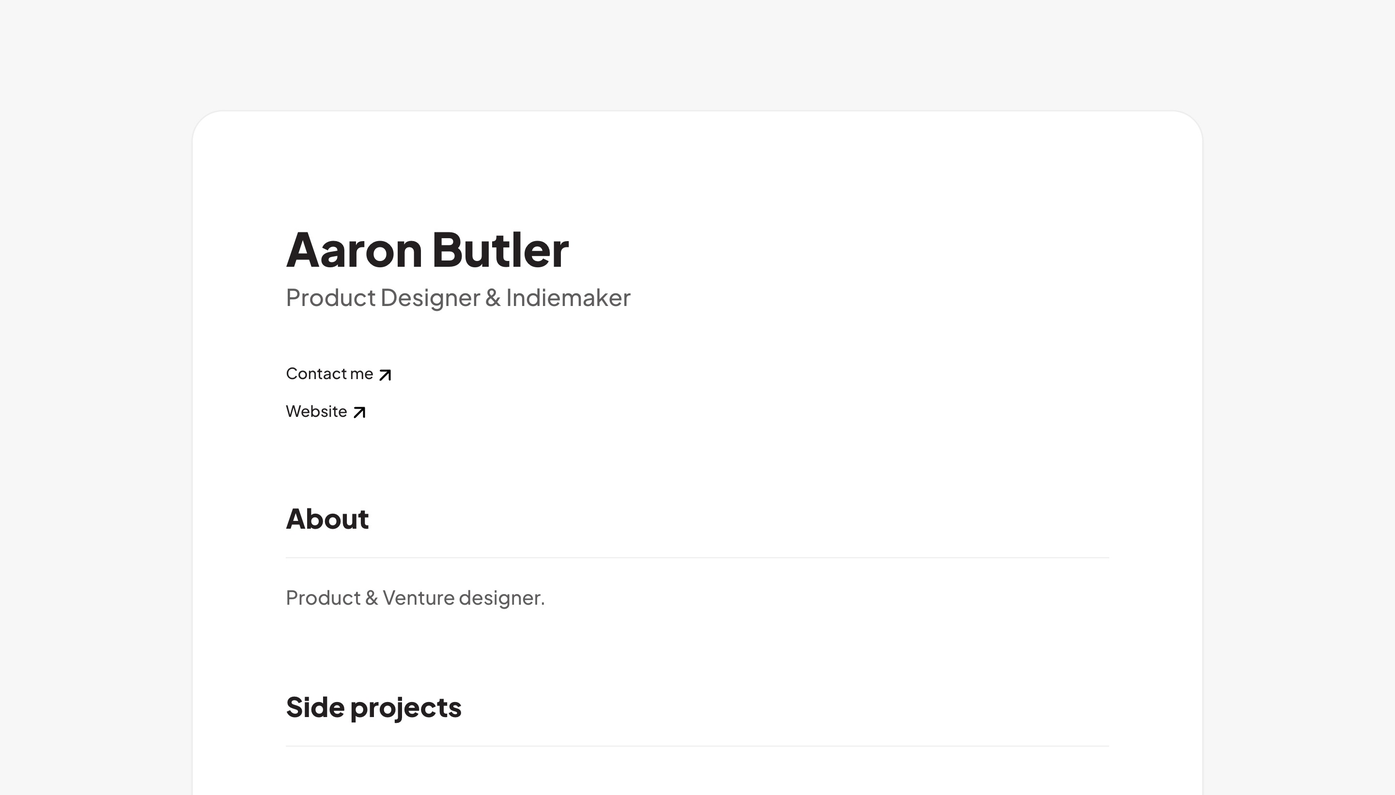
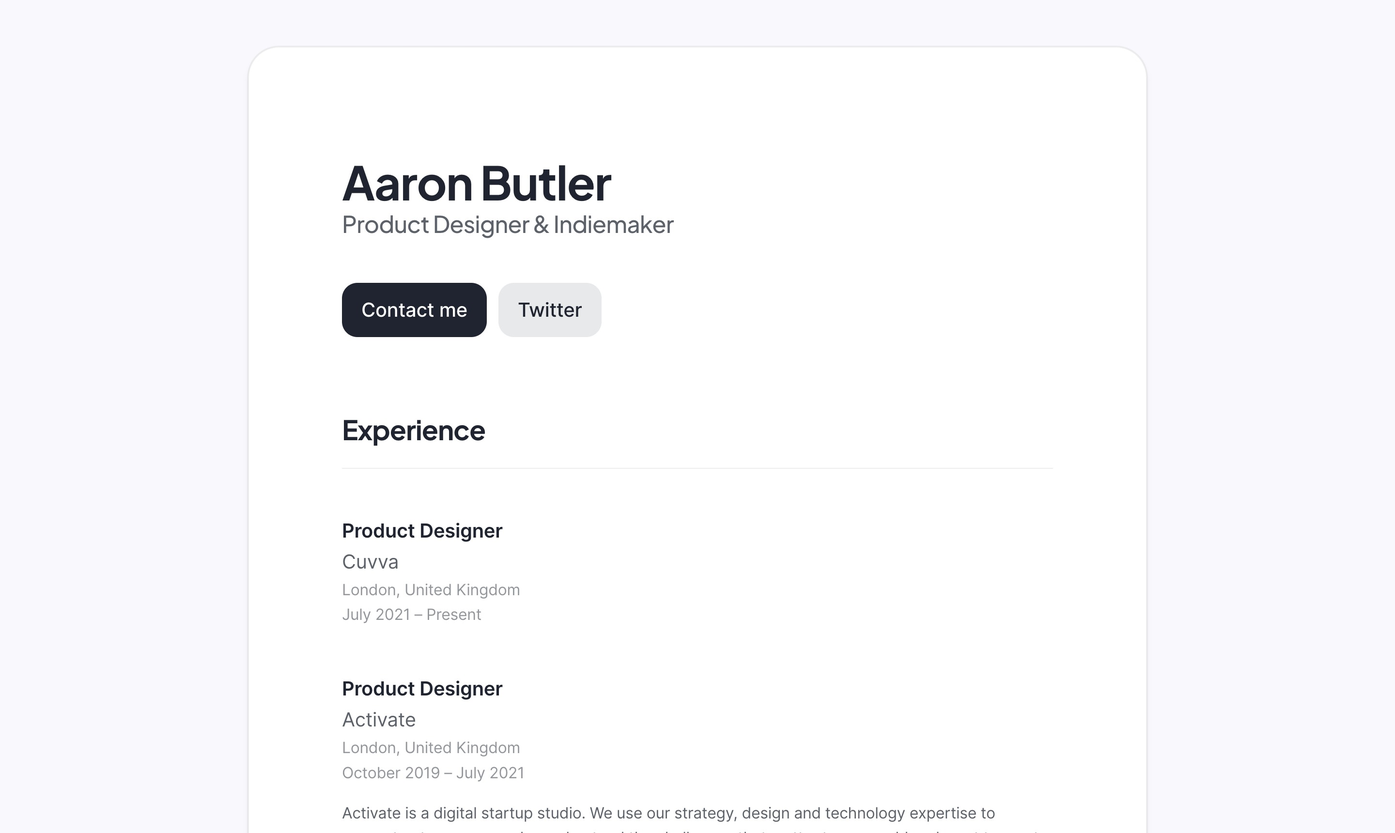
update template previews

diff --git a/components/profile/DocumentProfile.js b/components/profile/DocumentProfile.js
@@ -201,7 +201,7 @@ const DocumentProfile = (props) => {
           {/* <div style={{ marginTop: '66px' }}> */}
           <div>
             {props.pageId === currentUserId && !props.surveyOnSignUpHide ? <SurveyBanner /> : ''}
-            <Container className="py-5 px-3 px-md-3">
+            <Container className="py-5 px-3 px-md-3" style={{maxWidth: '960px'}}>
               <div className={`${profileStyles.profileCard} p-4 p-md-5 shadow-2 radius-4 bg-light-900`}>
                 <div className="px-0 px-md-5">
                   <div className="mt-0 mt-md-5 mb-5 py-3">
@@ -264,7 +264,7 @@ const DocumentProfile = (props) => {
                           })}
                       </div>
                       : ''} */}
-                    {(props.linksPrimary || props.email || links) &&
+                    {/* {(props.linksPrimary || props.email || links) &&
                       <div className="d-flex flex-column" style={{ gap: '12px' }}>
                         {props.linksPrimary ?
                           <a href={convertToLink(props.linksPrimary.url)} target="_blank" className={`${profileStyles.link}`}>
@@ -295,6 +295,28 @@ const DocumentProfile = (props) => {
                                 <svg width="24" viewBox="0 0 24 24">
                                   <path d={ICONS.ARROW_LINK}></path>
                                 </svg>
+                              </a>
+                            )
+                        })}
+                      </div>
+                    } */}
+                    {(props.linksPrimary || props.email || links) &&
+                      <div className="d-flex justify-content-start flex-column flex-sm-row flex-wrap mt-4" style={{ gap: '12px' }}>
+                        {props.linksPrimary ?
+                          <a href={convertToLink(props.linksPrimary.url)} target="_blank" className={`btn dark high w-100 w-sm-auto`}>{props.linksPrimary.label}</a>
+                        
+                        :
+                          <a href={'mailto:' + props.email} target="_blank" className={`btn dark high w-100 w-sm-auto`}>Contact me</a>
+                        }
+                        {props.links &&
+                          props.links.map((link, index) => {
+                            return (
+                              <a 
+                              key={index} 
+                              href={convertToLink(link.url)}
+                              target="_blank" 
+                              className={`btn dark medium w-100 w-sm-auto`}>
+                                {link.label}
                               </a>
                             )
                         })}
@@ -370,8 +392,7 @@ const DocumentProfile = (props) => {
                                     {sideProject.starts_at && sideProject.ends_at == null ? ' – Present' : null}
                                     {sideProject.starts_at && sideProject.ends_at && sideProject.ends_at.month && sideProject.ends_at.year ? ( sideProject.starts_at.month == sideProject.ends_at.month & sideProject.starts_at.year == sideProject.ends_at.year ? null : ` – ${convertMonth(sideProject.ends_at.month)} ${sideProject.ends_at.year}`) : null }
                                   </p>
-                                  {/* {sideProject.description ? <p className="text-dark-med mb-0 mt-3">{sideProject.description}</p> : null} */}
-                                  {sideProject.description ? <p className="text-dark-med mb-0 mt-3">{getDescriptionText(sideProject.description, descriptionShowMore, setDescriptionShowMore)}</p> : null}
+                                  {sideProject.description && getDescriptionText(sideProject.description, descriptionShowMore, setDescriptionShowMore)}
                                 </div>
                               </Accordion>
                             </div>
@@ -440,8 +461,7 @@ const DocumentProfile = (props) => {
                                     {job.starts_at && job.ends_at == null ? ' – Present' : null}
                                     {job.starts_at && job.ends_at && job.ends_at.month && job.ends_at.year ? ( job.starts_at.month == job.ends_at.month & job.starts_at.year == job.ends_at.year ? null : ` – ${convertMonth(job.ends_at.month)} ${job.ends_at.year}`) : null }
                                   </p>
-                                  {/* {job.description ? <p className="text-dark-med mb-0 mt-3">{job.description}</p> : null} */}
-                                  {job.description ? <p className="text-dark-med mb-0 mt-3">{getDescriptionText(job.description, descriptionShowMore, setDescriptionShowMore)}</p> : null}
+                                  {job.description && getDescriptionText(job.description, descriptionShowMore, setDescriptionShowMore)}
                                 </div>
                               </Accordion>
                             </div>
@@ -472,7 +492,7 @@ const DocumentProfile = (props) => {
                                                   currentTarget.className = 'd-none'
                                                 }}
                                                 className="position-absolute radius-2 shadow-2 bg-light-900 w-100 h-100" 
-                                                style={{ top: 0, left: 0, zIndex: 1 }}
+                                                style={{ top: 0, left: 0, zIndex: 1, objectFit:'cover' }}
                                               />
                                               <div id="placeholder" className="bg-dark-200 radius-2 align-items-center justify-content-center d-flex" style={{ position: 'absolute', top: 0, left: 0, width: '100%', height: '100%' }}>
                                                 <Icon icon={ICONS.PROJECTS} size='32' className="fill-dark-700" />
@@ -500,7 +520,8 @@ const DocumentProfile = (props) => {
                                         {project.starts_at && project.ends_at == null ? ' – Present' : null}
                                         {project.starts_at && project.ends_at && project.ends_at.month && project.ends_at.year ? ( project.starts_at.month == project.ends_at.month & project.starts_at.year == project.ends_at.year ? null : ` – ${convertMonth(project.ends_at.month)} ${project.ends_at.year}`) : null }
                                       </p>
-                                      {project.description ? <p className="text-dark-med mb-0 mt-3">{getDescriptionText(project.description, descriptionShowMore, setDescriptionShowMore)}</p> : null}
+                                      {/* {project.description ? <p className="text-dark-med mb-0 mt-3">{getDescriptionText(project.description, descriptionShowMore, setDescriptionShowMore)}</p> : null} */}
+                                      {project.description && getDescriptionText(project.description, descriptionShowMore, setDescriptionShowMore)}
                                     </div>
                                   </Accordion>
                                 </div>
@@ -574,55 +595,58 @@ const DocumentProfile = (props) => {
                       <h4>Volunteering</h4>
                       <hr className="mb-4"></hr>
                       <div className="">
-                        {props.volunteer_work.map((volunteer, index) =>
-                          <div key={index} className="py-4">
-                            <div className="d-flex flex-column flex-lg-row">
-                              {props.logoVisibility && props.logoVisibility.volunteering ?
-                                (volunteer.logo_url ?
-                                  <div className="mb-3 mb-lg-0 mr-0 mr-lg-4">
-                                    <a target="_blank" href={convertToLink(volunteer.company_linkedin_profile_url)} className="d-block position-relative" style={{ width: '72px', height: '72px', minWidth: '72px', minHeight: '72px', maxWidth: '72px', maxHeight: '72px', overflow: 'hidden' }}>
-                                      {/* <img 
-                                        className={styles.experienceImage} src={job.logo_url ? job.logo_url : null} 
-                                        style={{width: '72px', height: '72px', minWidth: '72px', minHeight: '72px'}}
-                                      /> */}
-                                      <img
-                                        className="radius-3 bg-light-900"
-                                        src={volunteer.logo_url ? volunteer.logo_url : null}
-                                        onError={({ currentTarget }) => {
-                                          // currentTarget.onerror = null; // prevents looping
-                                          currentTarget.className = 'd-none'
-                                          // currentTarget.style = "display: 'none'" 
-                                          // placeholder.setAttribute("class", "bg-dark-200 radius-3 d-flex align-items-center justify-content-center d-none");
-                                          // currentTarget.src="https://via.placeholder.com/150";
-                                        }}
-                                        style={{ position: 'absolute', top: 0, left: 0, width: '100%', height: '100%', minWidth: '72px', minHeight: '72px', zIndex: '1' }}
-                                      />
-                                      <div id="placeholder" className="bg-dark-200 radius-3 align-items-center justify-content-center d-flex" style={{ position: 'absolute', top: 0, left: 0, width: '100%', height: '100%', minWidth: '72px', minHeight: '72px' }}>
-                                        <Icon icon={ICONS.VOLUNTEERING} size='32' className="fill-dark-700" />
-                                      </div>
-                                    </a>
-                                  </div>
-                                  :
-                                  <div className="bg-dark-200 radius-3 d-flex align-items-center justify-content-center mb-3 mb-lg-0 mr-0 mr-lg-4" style={{ width: '72px', height: '72px', minWidth: '72px', minHeight: '72px' }}>
-                                    <Icon icon={ICONS.VOLUNTEERING} size='32' className="fill-dark-700" />
-                                  </div>
-                                ) : null}
-                              <div>
-                                <p className="large text-dark-high font-weight-semibold mb-0">{volunteer.title}</p>
-                                <a target="_blank" href={volunteer.company_linkedin_profile_url && convertToLink(volunteer.company_linkedin_profile_url)}>
-                                  <p className="large text-dark-med mb-0">{volunteer.company}</p>
-                                </a>
-                                <p className="text-dark-low mb-0">
-                                  {volunteer.starts_at ? (volunteer.starts_at.month ? convertMonth(volunteer.starts_at.month) + " " : '') : null}
-                                  {volunteer.starts_at ? (volunteer.starts_at.year ? volunteer.starts_at.year + " " : null) : null}
-                                  {volunteer.starts_at && volunteer.ends_at == null ? ' – Present' : null}
-                                  {volunteer.starts_at && volunteer.ends_at && volunteer.ends_at.month && volunteer.ends_at.year ? ( volunteer.starts_at.month == volunteer.ends_at.month & volunteer.starts_at.year == volunteer.ends_at.year ? null : ` – ${convertMonth(volunteer.ends_at.month)} ${volunteer.ends_at.year}`) : null }
-                                </p>
-                                {volunteer.description ? <p className="text-dark-med mb-0 mt-3">{volunteer.description}</p> : null}
+                        {props.volunteer_work.map((volunteer, index) => {
+                          const [descriptionShowMore, setDescriptionShowMore] = useState(false);
+                          return (
+                            <div key={index} className="py-4">
+                              <div className="d-flex flex-column flex-lg-row">
+                                {props.logoVisibility && props.logoVisibility.volunteering ?
+                                  (volunteer.logo_url ?
+                                    <div className="mb-3 mb-lg-0 mr-0 mr-lg-4">
+                                      <a target="_blank" href={convertToLink(volunteer.company_linkedin_profile_url)} className="d-block position-relative" style={{ width: '72px', height: '72px', minWidth: '72px', minHeight: '72px', maxWidth: '72px', maxHeight: '72px', overflow: 'hidden' }}>
+                                        {/* <img 
+                                          className={styles.experienceImage} src={job.logo_url ? job.logo_url : null} 
+                                          style={{width: '72px', height: '72px', minWidth: '72px', minHeight: '72px'}}
+                                        /> */}
+                                        <img
+                                          className="radius-3 bg-light-900"
+                                          src={volunteer.logo_url ? volunteer.logo_url : null}
+                                          onError={({ currentTarget }) => {
+                                            // currentTarget.onerror = null; // prevents looping
+                                            currentTarget.className = 'd-none'
+                                            // currentTarget.style = "display: 'none'" 
+                                            // placeholder.setAttribute("class", "bg-dark-200 radius-3 d-flex align-items-center justify-content-center d-none");
+                                            // currentTarget.src="https://via.placeholder.com/150";
+                                          }}
+                                          style={{ position: 'absolute', top: 0, left: 0, width: '100%', height: '100%', minWidth: '72px', minHeight: '72px', zIndex: '1' }}
+                                        />
+                                        <div id="placeholder" className="bg-dark-200 radius-3 align-items-center justify-content-center d-flex" style={{ position: 'absolute', top: 0, left: 0, width: '100%', height: '100%', minWidth: '72px', minHeight: '72px' }}>
+                                          <Icon icon={ICONS.VOLUNTEERING} size='32' className="fill-dark-700" />
+                                        </div>
+                                      </a>
+                                    </div>
+                                    :
+                                    <div className="bg-dark-200 radius-3 d-flex align-items-center justify-content-center mb-3 mb-lg-0 mr-0 mr-lg-4" style={{ width: '72px', height: '72px', minWidth: '72px', minHeight: '72px' }}>
+                                      <Icon icon={ICONS.VOLUNTEERING} size='32' className="fill-dark-700" />
+                                    </div>
+                                  ) : null}
+                                <div>
+                                  <p className="large text-dark-high font-weight-semibold mb-0">{volunteer.title}</p>
+                                  <a target="_blank" href={volunteer.company_linkedin_profile_url && convertToLink(volunteer.company_linkedin_profile_url)}>
+                                    <p className="large text-dark-med mb-0">{volunteer.company}</p>
+                                  </a>
+                                  <p className="text-dark-low mb-0">
+                                    {volunteer.starts_at ? (volunteer.starts_at.month ? convertMonth(volunteer.starts_at.month) + " " : '') : null}
+                                    {volunteer.starts_at ? (volunteer.starts_at.year ? volunteer.starts_at.year + " " : null) : null}
+                                    {volunteer.starts_at && volunteer.ends_at == null ? ' – Present' : null}
+                                    {volunteer.starts_at && volunteer.ends_at && volunteer.ends_at.month && volunteer.ends_at.year ? ( volunteer.starts_at.month == volunteer.ends_at.month & volunteer.starts_at.year == volunteer.ends_at.year ? null : ` – ${convertMonth(volunteer.ends_at.month)} ${volunteer.ends_at.year}`) : null }
+                                  </p>
+                                  {volunteer.description && getDescriptionText(volunteer.description, descriptionShowMore, setDescriptionShowMore)}
+                                </div>
                               </div>
                             </div>
-                          </div>
-                        )}
+                          )
+                        })}
                       </div>
                     </div>
                   }

diff --git a/components/profile/BasicProfile.js b/components/profile/BasicProfile.js
@@ -380,8 +380,7 @@ const BasicProfile = (props) => {
                                 {sideProject.starts_at && sideProject.ends_at == null ? ' – Present' : null}
                                 {sideProject.starts_at && sideProject.ends_at && sideProject.ends_at.month && sideProject.ends_at.year ? ( sideProject.starts_at.month == sideProject.ends_at.month & sideProject.starts_at.year == sideProject.ends_at.year ? null : ` – ${convertMonth(sideProject.ends_at.month)} ${sideProject.ends_at.year}`) : null }
                               </p>
-                              {/* {sideProject.description ? <p className="text-dark-med mb-0 mt-3">{sideProject.description}</p> : null} */}
-                              {sideProject.description ? <p className="text-dark-med mb-0 mt-3">{getDescriptionText(sideProject.description, descriptionShowMore, setDescriptionShowMore)}</p> : null}
+                              {sideProject.description && getDescriptionText(sideProject.description, descriptionShowMore, setDescriptionShowMore)}
                             </div>
                           </Accordion>
                         </div>
@@ -451,7 +450,7 @@ const BasicProfile = (props) => {
                                 {job.starts_at && job.ends_at && job.ends_at.month && job.ends_at.year ? ( job.starts_at.month == job.ends_at.month & job.starts_at.year == job.ends_at.year ? null : ` – ${convertMonth(job.ends_at.month)} ${job.ends_at.year}`) : null }
                               </p>
                               {/* {job.description ? <p className="text-dark-med mb-0 mt-3">{job.description}</p> : null} */}
-                              {job.description ? <p className="text-dark-med mb-0 mt-3">{getDescriptionText(job.description, descriptionShowMore, setDescriptionShowMore)}</p> : null}
+                              {job.description && getDescriptionText(job.description, descriptionShowMore, setDescriptionShowMore)}
                             </div>
                           </Accordion>
                         </div>
@@ -508,7 +507,7 @@ const BasicProfile = (props) => {
                                     {project.starts_at && project.ends_at == null ? ' – Present' : null}
                                     {project.starts_at && project.ends_at && project.ends_at.month && project.ends_at.year ? ( project.starts_at.month == project.ends_at.month & project.starts_at.year == project.ends_at.year ? null : ` – ${convertMonth(project.ends_at.month)} ${project.ends_at.year}`) : null }
                                   </p>
-                                  {project.description ? <p className="text-dark-med mb-0 mt-3">{getDescriptionText(project.description, descriptionShowMore, setDescriptionShowMore)}</p> : null}
+                                  {project.description && getDescriptionText(projects.description, descriptionShowMore, setDescriptionShowMore)}
                                 </div>
                               </Accordion>
                             </div>
@@ -582,55 +581,58 @@ const BasicProfile = (props) => {
                 <div className="mb-5">
                   <h4>Volunteering</h4>
                   <div className={styles.profileCard + ' card'}>
-                    {props.volunteer_work.map((volunteer, index) =>
-                      <div key={index} className={`${styles.job}`}>
-                        <div className="d-flex flex-column flex-lg-row">
-                          {props.logoVisibility && props.logoVisibility.volunteering ?
-                            (volunteer.logo_url ?
-                              <div className="mb-3 mb-lg-0 mr-0 mr-lg-4">
-                                <a target="_blank" href={convertToLink(volunteer.company_linkedin_profile_url)} className="d-block position-relative" style={{ width: '72px', height: '72px', minWidth: '72px', minHeight: '72px', maxWidth: '72px', maxHeight: '72px', overflow: 'hidden' }}>
-                                  {/* <img 
-                                    className={styles.experienceImage} src={job.logo_url ? job.logo_url : null} 
-                                    style={{width: '72px', height: '72px', minWidth: '72px', minHeight: '72px'}}
-                                  /> */}
-                                  <img
-                                    className="radius-3 bg-light-900"
-                                    src={volunteer.logo_url ? volunteer.logo_url : null}
-                                    onError={({ currentTarget }) => {
-                                      // currentTarget.onerror = null; // prevents looping
-                                      currentTarget.className = 'd-none'
-                                      // currentTarget.style = "display: 'none'" 
-                                      // placeholder.setAttribute("class", "bg-dark-200 radius-3 d-flex align-items-center justify-content-center d-none");
-                                      // currentTarget.src="https://via.placeholder.com/150";
-                                    }}
-                                    style={{ position: 'absolute', top: 0, left: 0, width: '100%', height: '100%', minWidth: '72px', minHeight: '72px', zIndex: '1' }}
-                                  />
-                                  <div id="placeholder" className="bg-dark-200 radius-3 align-items-center justify-content-center d-flex" style={{ position: 'absolute', top: 0, left: 0, width: '100%', height: '100%', minWidth: '72px', minHeight: '72px' }}>
-                                    <Icon icon={ICONS.VOLUNTEERING} size='32' className="fill-dark-700" />
-                                  </div>
-                                </a>
-                              </div>
-                              :
-                              <div className="bg-dark-200 radius-3 d-flex align-items-center justify-content-center mb-3 mb-lg-0 mr-0 mr-lg-4" style={{ width: '72px', height: '72px', minWidth: '72px', minHeight: '72px' }}>
-                                <Icon icon={ICONS.VOLUNTEERING} size='32' className="fill-dark-700" />
-                              </div>
-                            ) : null}
-                          <div>
-                            <p className="large text-dark-high font-weight-semibold mb-0">{volunteer.title}</p>
-                            <a target="_blank" href={volunteer.company_linkedin_profile_url && convertToLink(volunteer.company_linkedin_profile_url)}>
-                              <p className="large text-dark-med mb-0">{volunteer.company}</p>
-                            </a>
-                            <p className="text-dark-low mb-0">
-                              {volunteer.starts_at ? (volunteer.starts_at.month ? convertMonth(volunteer.starts_at.month) + " " : '') : null}
-                              {volunteer.starts_at ? (volunteer.starts_at.year ? volunteer.starts_at.year + " " : null) : null}
-                              {volunteer.starts_at && volunteer.ends_at == null ? ' – Present' : null}
-                              {volunteer.starts_at && volunteer.ends_at && volunteer.ends_at.month && volunteer.ends_at.year ? ( volunteer.starts_at.month == volunteer.ends_at.month & volunteer.starts_at.year == volunteer.ends_at.year ? null : ` – ${convertMonth(volunteer.ends_at.month)} ${volunteer.ends_at.year}`) : null }
-                            </p>
-                            {volunteer.description ? <p className="text-dark-med mb-0 mt-3">{volunteer.description}</p> : null}
+                    {props.volunteer_work.map((volunteer, index) => {
+                      const [descriptionShowMore, setDescriptionShowMore] = useState(false);
+                      return (
+                        <div key={index} className={`${styles.job}`}>
+                          <div className="d-flex flex-column flex-lg-row">
+                            {props.logoVisibility && props.logoVisibility.volunteering ?
+                              (volunteer.logo_url ?
+                                <div className="mb-3 mb-lg-0 mr-0 mr-lg-4">
+                                  <a target="_blank" href={convertToLink(volunteer.company_linkedin_profile_url)} className="d-block position-relative" style={{ width: '72px', height: '72px', minWidth: '72px', minHeight: '72px', maxWidth: '72px', maxHeight: '72px', overflow: 'hidden' }}>
+                                    {/* <img 
+                                      className={styles.experienceImage} src={job.logo_url ? job.logo_url : null} 
+                                      style={{width: '72px', height: '72px', minWidth: '72px', minHeight: '72px'}}
+                                    /> */}
+                                    <img
+                                      className="radius-3 bg-light-900"
+                                      src={volunteer.logo_url ? volunteer.logo_url : null}
+                                      onError={({ currentTarget }) => {
+                                        // currentTarget.onerror = null; // prevents looping
+                                        currentTarget.className = 'd-none'
+                                        // currentTarget.style = "display: 'none'" 
+                                        // placeholder.setAttribute("class", "bg-dark-200 radius-3 d-flex align-items-center justify-content-center d-none");
+                                        // currentTarget.src="https://via.placeholder.com/150";
+                                      }}
+                                      style={{ position: 'absolute', top: 0, left: 0, width: '100%', height: '100%', minWidth: '72px', minHeight: '72px', zIndex: '1' }}
+                                    />
+                                    <div id="placeholder" className="bg-dark-200 radius-3 align-items-center justify-content-center d-flex" style={{ position: 'absolute', top: 0, left: 0, width: '100%', height: '100%', minWidth: '72px', minHeight: '72px' }}>
+                                      <Icon icon={ICONS.VOLUNTEERING} size='32' className="fill-dark-700" />
+                                    </div>
+                                  </a>
+                                </div>
+                                :
+                                <div className="bg-dark-200 radius-3 d-flex align-items-center justify-content-center mb-3 mb-lg-0 mr-0 mr-lg-4" style={{ width: '72px', height: '72px', minWidth: '72px', minHeight: '72px' }}>
+                                  <Icon icon={ICONS.VOLUNTEERING} size='32' className="fill-dark-700" />
+                                </div>
+                              ) : null}
+                            <div>
+                              <p className="large text-dark-high font-weight-semibold mb-0">{volunteer.title}</p>
+                              <a target="_blank" href={volunteer.company_linkedin_profile_url && convertToLink(volunteer.company_linkedin_profile_url)}>
+                                <p className="large text-dark-med mb-0">{volunteer.company}</p>
+                              </a>
+                              <p className="text-dark-low mb-0">
+                                {volunteer.starts_at ? (volunteer.starts_at.month ? convertMonth(volunteer.starts_at.month) + " " : '') : null}
+                                {volunteer.starts_at ? (volunteer.starts_at.year ? volunteer.starts_at.year + " " : null) : null}
+                                {volunteer.starts_at && volunteer.ends_at == null ? ' – Present' : null}
+                                {volunteer.starts_at && volunteer.ends_at && volunteer.ends_at.month && volunteer.ends_at.year ? ( volunteer.starts_at.month == volunteer.ends_at.month & volunteer.starts_at.year == volunteer.ends_at.year ? null : ` – ${convertMonth(volunteer.ends_at.month)} ${volunteer.ends_at.year}`) : null }
+                              </p>
+                              {volunteer.description && getDescriptionText(volunteer.description, descriptionShowMore, setDescriptionShowMore)}
+                            </div>
                           </div>
                         </div>
-                      </div>
-                    )}
+                      )
+                    })}
                   </div>
                   <br /><br />
                 </div>

diff --git a/components/editProfile/Template.js b/components/editProfile/Template.js
@@ -90,7 +90,7 @@ const Template = ({
       "id": uuidv4(),
       'label': 'Original',
       'string': 'original',
-      'img': '/images/profile-preview.png',
+      'img': '/images/profile-preview.jpeg',
       'active': !templateChanged ? userContext?.template == 'original' || !userContext?.template : template == 'original',
       // 'active': 
       //   templateChanged ? 
@@ -106,7 +106,7 @@ const Template = ({
       "id": uuidv4(),
       'label': 'Bento',
       'string': 'bento',
-      'img': '/images/bento-template.jpg',
+      'img': '/images/bento-template.jpeg',
       'active': !templateChanged ? userContext?.template == 'bento' : template == 'bento',
       'premium': true
     },

diff --git a/pages/templates.js b/pages/templates.js
@@ -29,14 +29,14 @@ const Templates = () => {
       'id': 0,
       'label': 'Original',
       'string': 'original',
-      'img': '/images/profile-preview.png',
+      'img': '/images/profile-preview.jpeg',
       'premium': false
     },
     {
       'id': 1,
       'label': 'Bento',
       'string': 'bento',
-      'img': '/images/bento-template.jpg',
+      'img': '/images/bento-template.jpeg',
       'premium': true
     },
     {
